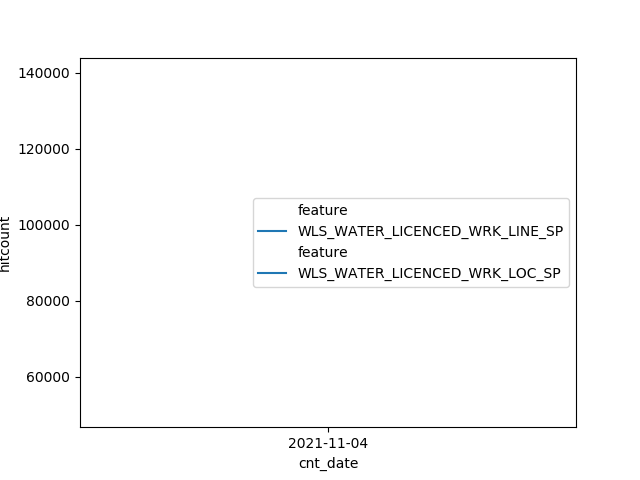
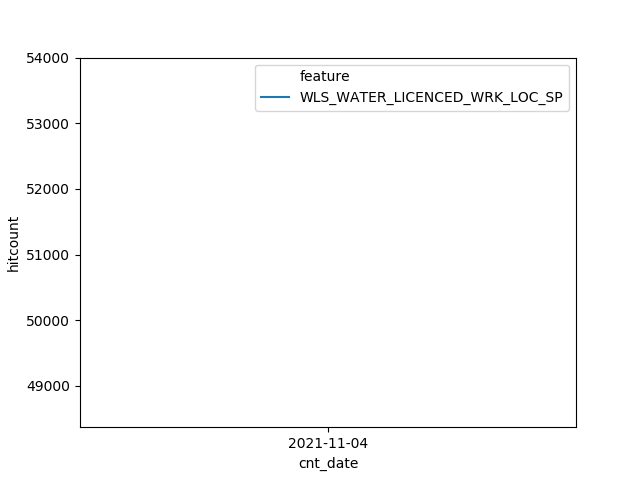
add clr plot fig

diff --git a/get-wfs-count.py b/get-wfs-count.py
@@ -40,10 +40,7 @@ def make_plt(feature_name,input_csv='feature-counts.csv', output='plot.png'):
     feat_plt = seaborn.lineplot(x='cnt_date',y='hitcount',data=df,hue='feature')
     fig = feat_plt.get_figure()
     fig.savefig(output)
-    del fig
-    del feat_plt
-    del df
-    
+    fig.clf()    
 
 if __name__=='__main__':
     for feature in FEATURES:

diff --git a/readme.md b/readme.md
@@ -1,5 +1,7 @@
 [![data-health-check](https://github.com/wburt/action-test/actions/workflows/health-check.yml/badge.svg)](https://github.com/wburt/action-test/actions/workflows/health-check.yml)
 
 This has an action to monitor health of wfs data
+## Licenced Works (Lines)
 ![](./WLS_WATER_LICENCED_WRK_LINE_SP.png)
+## Licenced Works (Points)
 ![](./WLS_WATER_LICENCED_WRK_LOC_SP.png)
